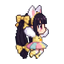
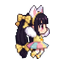
Ver.1.670: アイドルぴよのジャンプ/落下をユーザー選定のコマへ差し替え（jump=f_14 / fall=f_53）
一覧から選び直し: ジャンプ f_13 → **f_14**（上昇の頂点・空中率100%）／
落下 f_21 → **f_53**（下降・空中率64%＝脚がしっかり流れた所）。
⚠**Veoは回していない**。144コマの生フレームを残してあるので、切り出し番号を変えるだけで済む。

候補一覧を作る tools/idol-jumpfall-candidates.mjs を追加（APIを使わない）。
・足元Yを全コマ測り、前コマとの差で上昇/下降を機械的に仕分ける。
  ⚠**目視では上昇中と下降中を区別できない**（頂点付近は姿勢がほぼ同じ）。
  取り違えると「跳んでいるのに落下ポーズ」になる。
・並べるのは**実際に書き出される64pxの姿**。生の1024pxのまま並べると、
  縮小で潰れる差が見えず選び間違える。
他スキンで同じ選定をする時にも流用できる。

実機確認: idle/walk(4枚)/jump/fall すべて skin_idol_* を使用（フォールバックなし）。

Changed region(s): [[0.2188, 0.0625, 0.7812, 0.9375]]

diff --git a/sprites.js b/sprites.js
@@ -30,9 +30,10 @@ var IMAGE_SPRITES = {
 
     // アイドルぴよスキン（タイトルショップ200,000円・1.667。ぴよ氏本人のアイドル衣装・公認）
     // 立ち絵=Gemini（正面）／歩行=Veo veo_idol_walk.mp4 の f_24/30/36/42／
-    // jump/fall=Veo veo_idol_jumpfall.mp4 の f_13（上昇・膝を抱える）と f_21（下降・脚を流す）。
+    // jump/fall=Veo veo_idol_jumpfall.mp4 の f_14（上昇の頂点）と f_53（下降・脚が流れた所）。
     // ⚠jump/fall のコマは**足元Yを全コマ測って**選ぶこと。目視だと上昇中と下降中を取り違える
-    //   （このクリップは接地1185→頂点977＝208pxの跳躍。空中率0.9超のうち上昇=13、下降=21）。
+    //   （このクリップは接地1185→頂点977＝208pxの跳躍。空中率で上昇=14が100%、下降=53が64%）。
+    //   候補一覧は tools/idol-jumpfall-candidates.mjs で作れる（APIを使わず作り直せる）。
     skin_idol_idle: { files: ['images/skin_idol_idle.png'] },
     skin_idol_walk: { files: [
         'images/skin_idol_walk_1.png',

diff --git a/index.html b/index.html
@@ -76,7 +76,7 @@
                 box-sizing: border-box;
             }
             body::after {
-                content: "Ver.1.669";
+                content: "Ver.1.670";
                 position: fixed;
                 bottom: 8px; right: 10px;
                 color: rgba(255,255,255,0.5);
@@ -951,7 +951,7 @@
                     color: #fff; font-size: clamp(7px, 1.2vw, 12px);
                     text-shadow: 2px 2px 4px rgba(0,0,0,0.8);
                     font-weight: bold;">
-                    <span style="background: rgba(0,0,0,0.4); padding: 2px 6px; border-radius: 5px;">Ver.1.669</span>
+                    <span style="background: rgba(0,0,0,0.4); padding: 2px 6px; border-radius: 5px;">Ver.1.670</span>
                 </div>
 
                 <!-- クレジット：右下 -->
